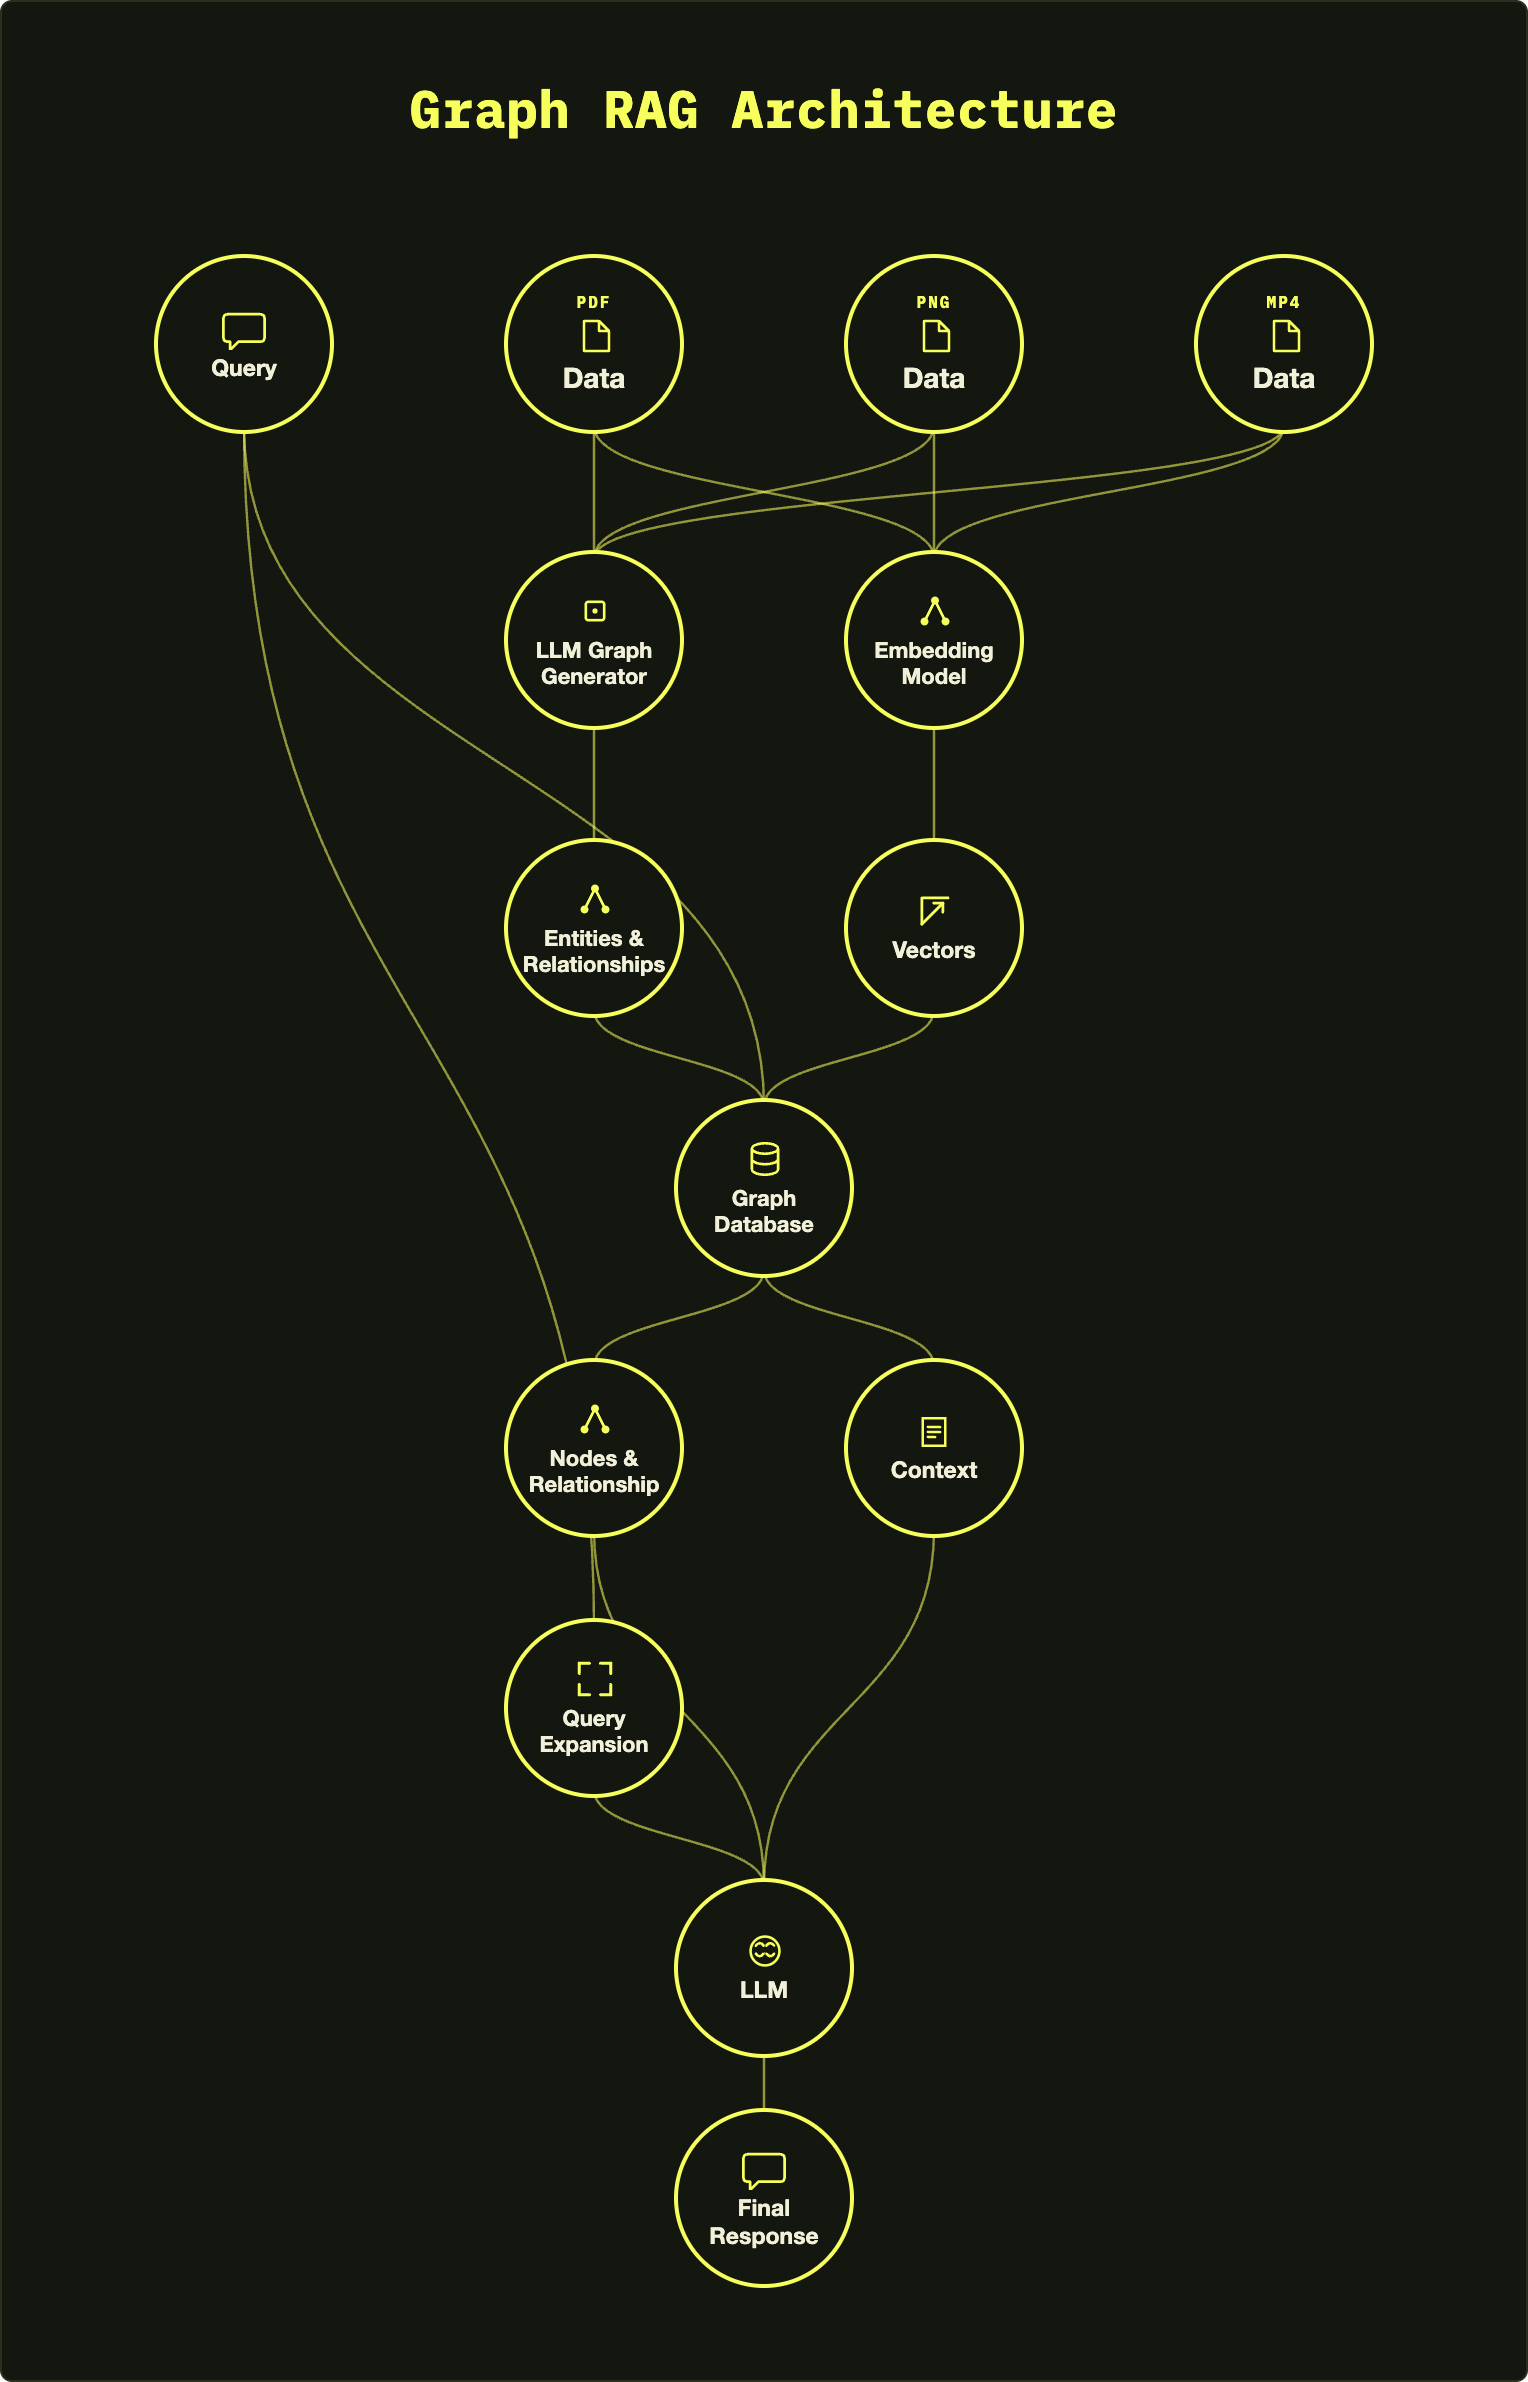
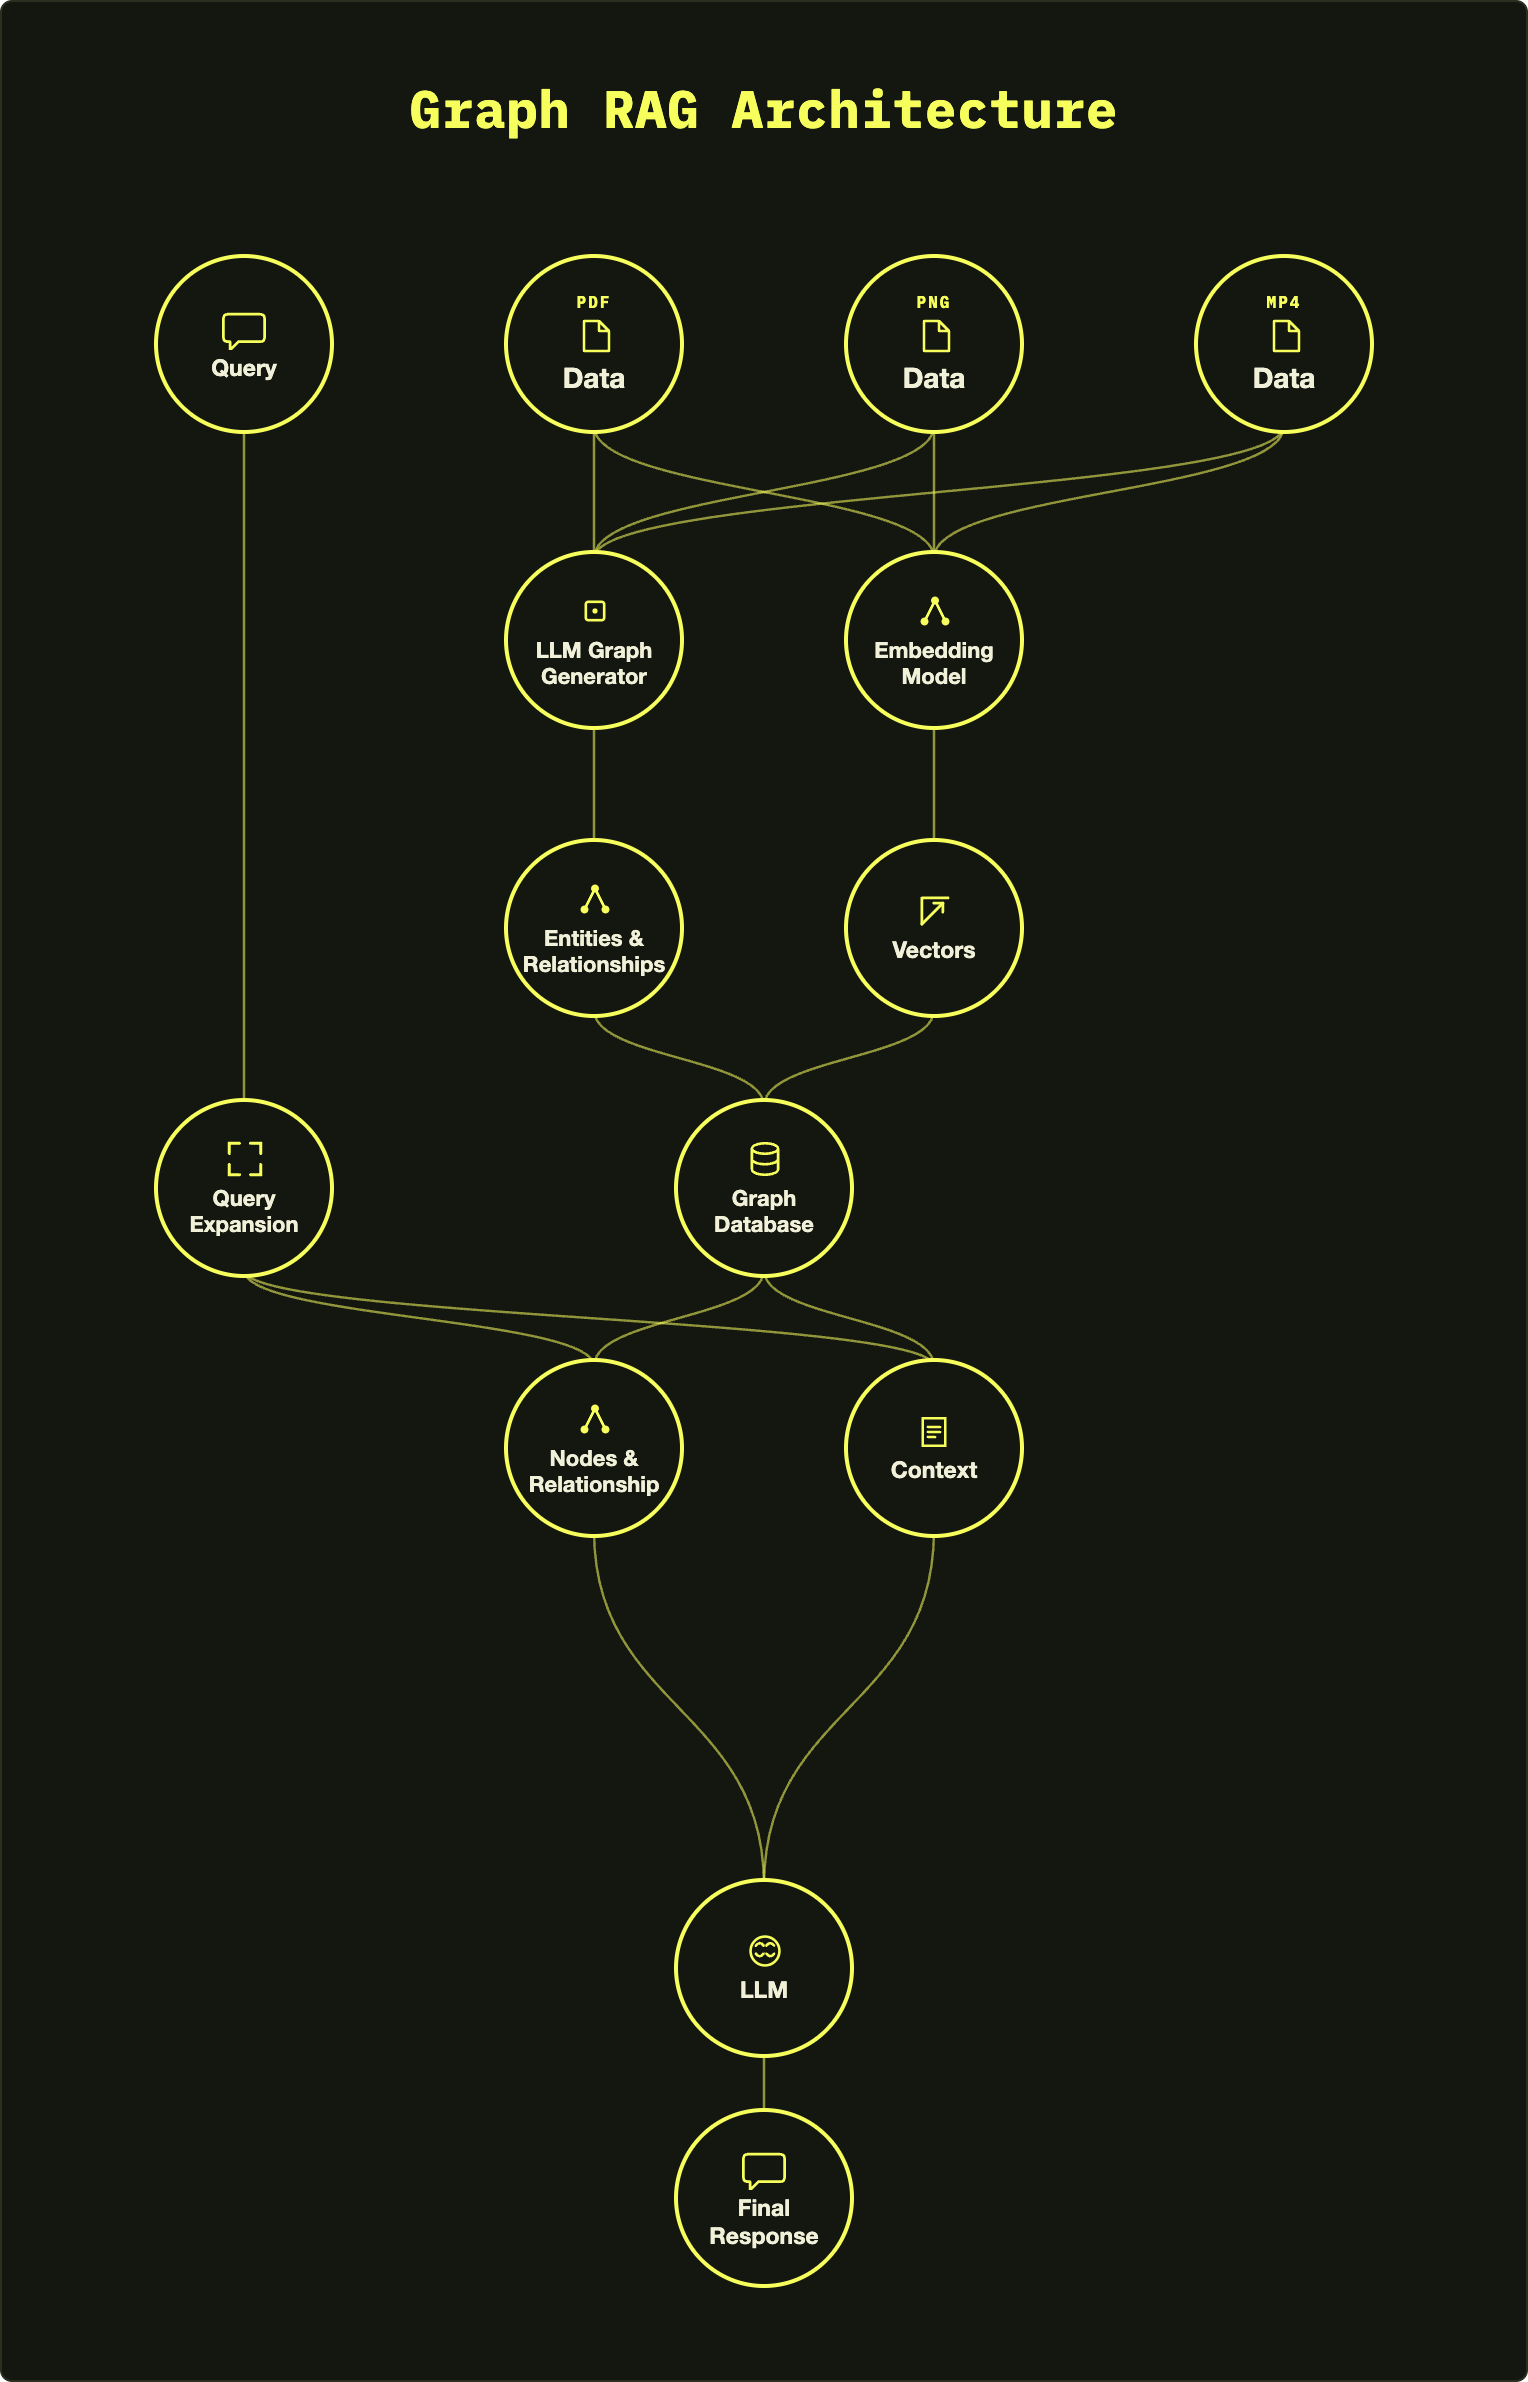
Update frontend

diff --git a/style.css b/style.css
@@ -155,7 +155,7 @@ button:focus-visible{
 }
 .card-slot{
     flex: 0 0 auto;
-    width: 15.6rem;
+    width: 17.5rem;
     aspect-ratio: 3 / 4.4;
     opacity: 0;
     transform: translate(var(--dx, -10rem), var(--dy, -8rem));
